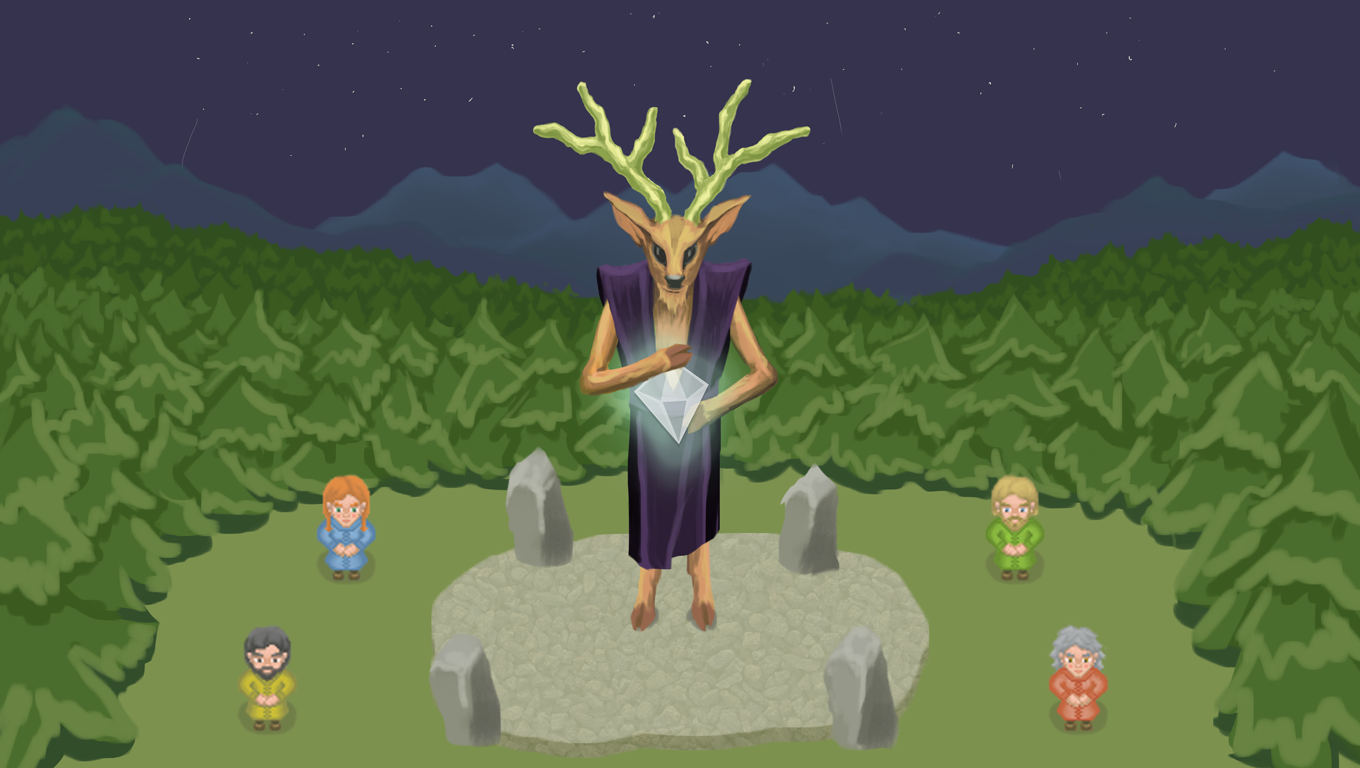
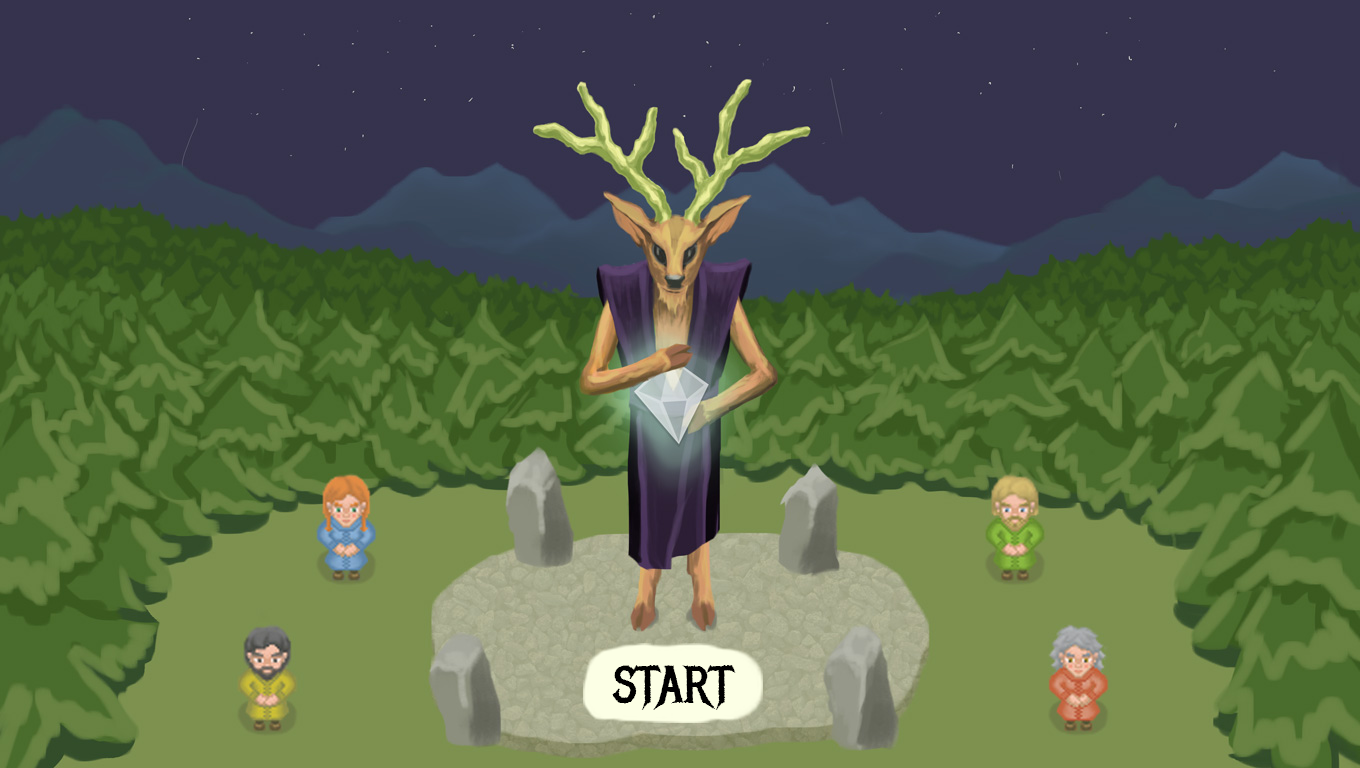
DP-43 DP-33 Correct background and fixed restart game bug

Changed region(s): [[0.4324, 0.8125, 0.5868, 0.9688]]

diff --git a/game.cpp b/game.cpp
@@ -44,7 +44,7 @@ void Game::setTxtEndGameAmount(){
 
     int width=1360;
     //    int height = 768;
-//    int startHeight = 100;
+    //    int startHeight = 100;
     int separator = 40;
     std::array<ResultTable, 4> results = {
         {
@@ -132,15 +132,16 @@ void Game::initBoard()
 
     cardsDeck.setFonts(&gameFont);
     restartGame();
+    launchNextPlayer();
 
 
-//    for (int i=0;i<4;i++)
-//    {
-//        endGameTxtAmount[i].setFont(gameFont);
-//        endGameTxtAmount[i].setCharacterSize(25);
+    //    for (int i=0;i<4;i++)
+    //    {
+    //        endGameTxtAmount[i].setFont(gameFont);
+    //        endGameTxtAmount[i].setCharacterSize(25);
 
 
-//    }
+    //    }
 
     endGameTxt.setFont(gameFont);
     endGameTxt.setString("End of the Game");
@@ -215,7 +216,6 @@ void Game::restartGame()
     cardsDeck.reloadCards();
     deerModeActive = false;
     deerModeCounter = 16;
-    launchNextPlayer();
 
 }
 
@@ -316,7 +316,7 @@ void Game::showGameBoard()
     sfx.playLetsBegin();
     //    std::cout << "lets begin" << std::endl;
     currentState = state_setup_players;
-//    currentState = state_lets_begin;
+    //    currentState = state_lets_begin;
 }
 
 void Game::endGame()
@@ -390,34 +390,22 @@ void Game::handleLeftClick(sf::Vector2f pos,sf::Vector2f posFull, int mousePos) 
 
     if (currentState==state_setup_players)
     {
-        std::array<std::array<int,2>,4> spriteHumanPos =
-        {
-            {
-                {{220,450}}, {{1050,450}},
-                {{140,600}}, {{1110, 600}}
-            }
-        };
-
-
-
         for (int i=0;i<4;i++)
         {
             sf::IntRect spriteHumanRect(players[i].spriteAI.getGlobalBounds());
             if (spriteHumanRect.intersects(sf::IntRect(posFull.x, posFull.y, 1, 1)))
-
             {
                 players[i].swapHuman();
             }
         }
-
         sf::IntRect startGameRect(580,640,180,80);
         if (startGameRect.intersects(sf::IntRect(posFull.x, posFull.y, 1, 1)))
         {
             currentState=state_roll_dice;
+            launchNextPlayer();
+            return;
         }
-
     }
-
     else if (currentState==state_roll_dice)
     {
         if (players[turn].human){
@@ -434,6 +422,7 @@ void Game::handleLeftClick(sf::Vector2f pos,sf::Vector2f posFull, int mousePos) 
         downTimeCounter = 0;
         hideMenu();
         showGameBoard();
+        return;
     }
 
     if (currentState==state_gui_end_round)
@@ -449,6 +438,7 @@ void Game::handleLeftClick(sf::Vector2f pos,sf::Vector2f posFull, int mousePos) 
 
             currentState = state_roll_dice;
             restartGame();
+            launchNextPlayer();
             return;
         }
     }
@@ -459,6 +449,8 @@ void Game::handleLeftClick(sf::Vector2f pos,sf::Vector2f posFull, int mousePos) 
         {
             currentState = state_menu;
             restartGame();
+            return ;
+            //            restartGame();
         }
     }
 
@@ -742,8 +734,8 @@ void Game::nextRound() {
         currentSeason++;
     if (currentSeason>3)
         currentSeason=0;
-//    if (players[turn].done==true)
-//        nextPlayer();
+    //    if (players[turn].done==true)
+    //        nextPlayer();
 
     launchNextPlayer();
 }
@@ -779,12 +771,12 @@ void Game::nextPlayer(){
     turn++;
 
 
-//    if (players[turn].done==true)
-//    {
-//        //        std::cout << "Player " << turn << " is done" << std::endl;
-//        nextPlayer();
-//        return;
-//    }
+    //    if (players[turn].done==true)
+    //    {
+    //        //        std::cout << "Player " << turn << " is done" << std::endl;
+    //        nextPlayer();
+    //        return;
+    //    }
 
 
 
@@ -984,7 +976,7 @@ void Game::render(float deltaTime)
         renderTexture.draw(spriteDeerGod);
         for (int i=0;i<4;i++)
         {
-                renderTexture.draw(players[i].spriteAI);
+            renderTexture.draw(players[i].spriteAI);
         }
     } else if (currentState==state_gui_elem) {
         renderTexture.setView(viewFull);
@@ -998,8 +990,8 @@ void Game::render(float deltaTime)
     }  else if (currentState==state_menu) {
         shaderBlur.setParameter("blur_radius", 15);
         renderTexture.draw(menuBackground);
-//        renderTexture.draw(menuTxt, &shaderBlur);
-//        renderTexture.draw(menuTxt);
+        //        renderTexture.draw(menuTxt, &shaderBlur);
+        //        renderTexture.draw(menuTxt);
         renderTexture.draw(paganHolidayTxt);
     }  else if (currentState==state_lets_begin) {
         renderTexture.setView(viewFull);
@@ -1028,10 +1020,10 @@ void Game::render(float deltaTime)
         renderTexture.draw(spriteLestBegin,&shaderBlur);
         renderTexture.draw(endGameTxt);
 
-//        for (int i=0;i<4;i++){
-//            if (players[i].reachedPortal)
-//                renderTexture.draw(endGameTxtAmount[i]);
-//        }
+        //        for (int i=0;i<4;i++){
+        //            if (players[i].reachedPortal)
+        //                renderTexture.draw(endGameTxtAmount[i]);
+        //        }
 
         renderTexture.draw(txtWinner);
         renderTexture.draw(txtSurvivorsLabel);
